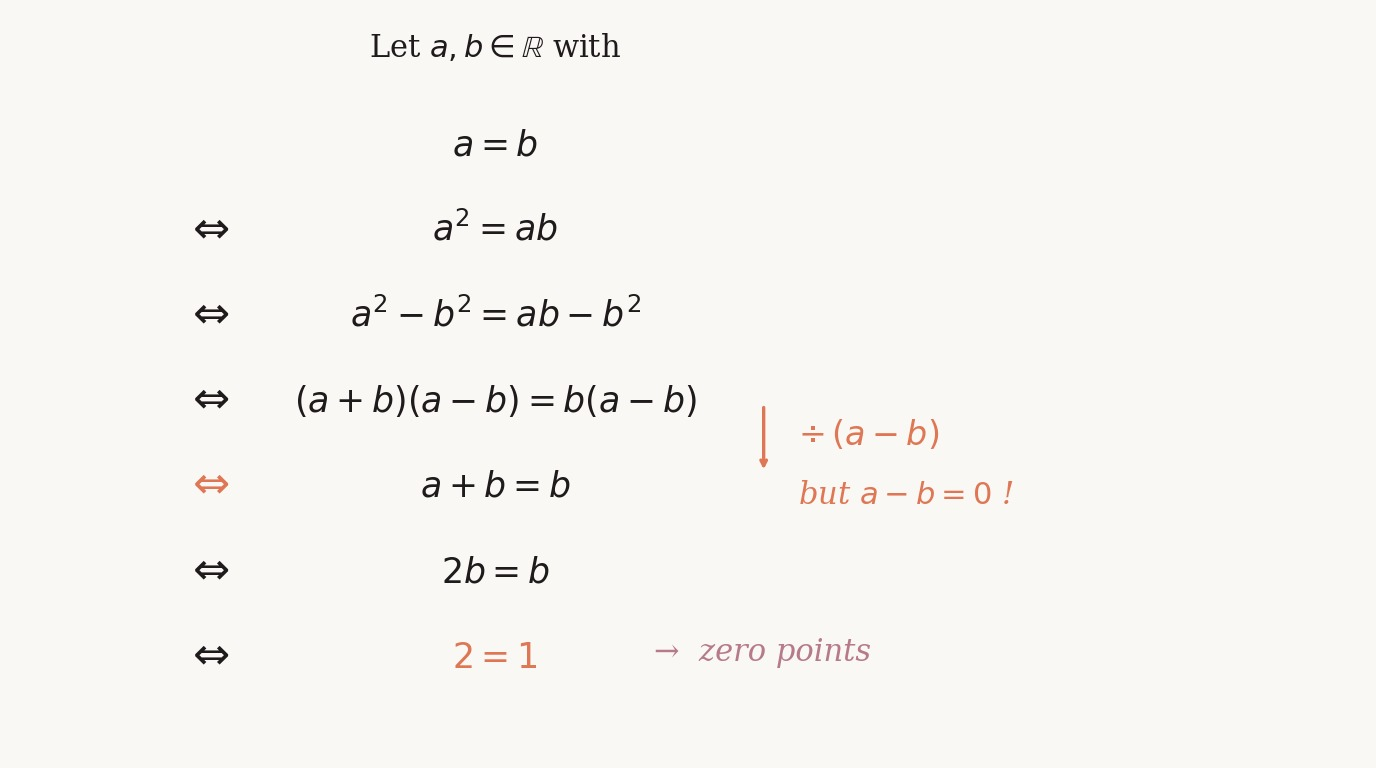
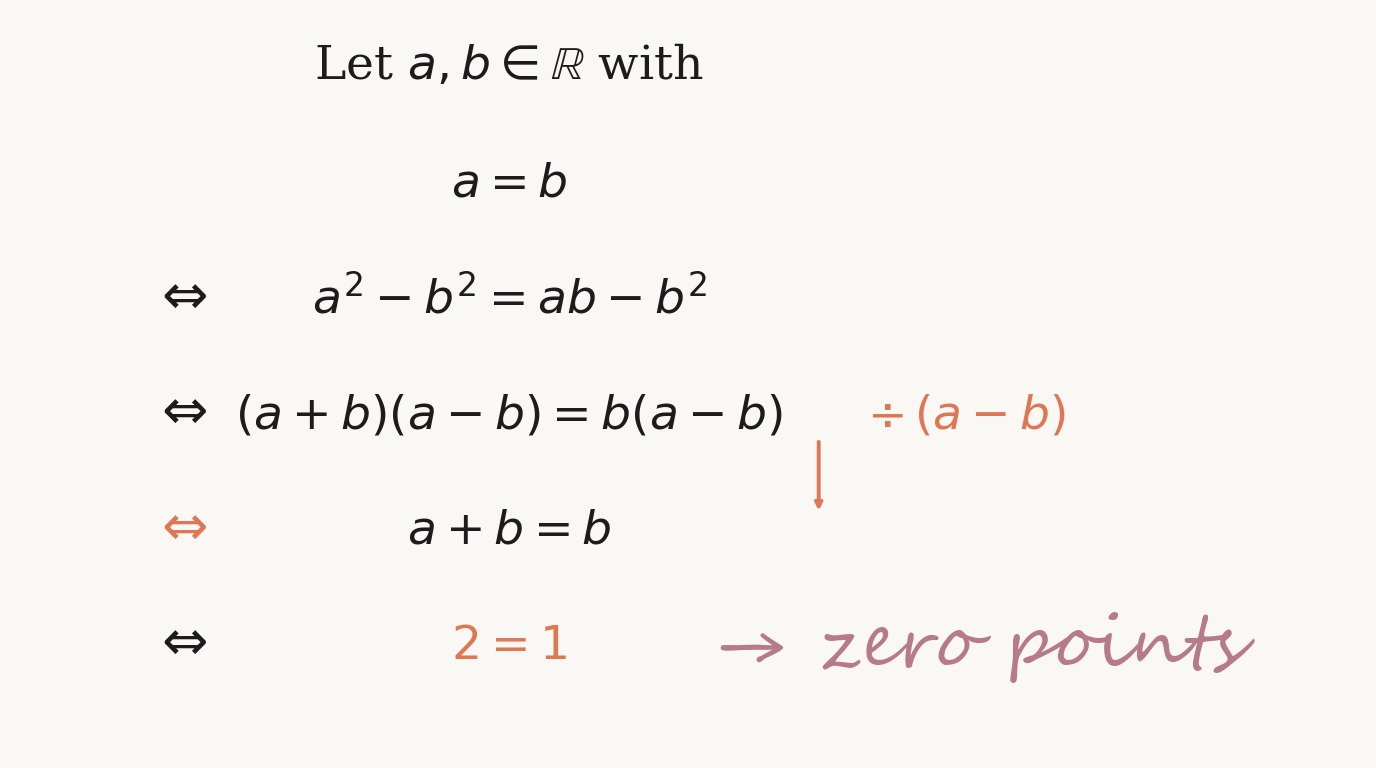
Then and Now card folder (photo credit); divide-by-zero card in five lines

diff --git a/divide-by-zero/divide_by_zero_card.py b/divide-by-zero/divide_by_zero_card.py
@@ -1,4 +1,4 @@
-"""Card image for 'Never Divide by Zero!': the classic 'proof' that 2 = 1, with the hidden division by zero.
+"""Card image for 'Never Divide by Zero!': the classic 'proof' that 2 = 1 in five lines, with the hidden division by zero. Needs the Windows font Segoe Script for the handwritten verdict (any script font will do).
 Usage: python divide_by_zero_card.py out.jpg"""
 import sys
 import matplotlib
@@ -13,19 +13,19 @@ fig.patch.set_facecolor(IVORY)
 ax = fig.add_axes([0, 0, 1, 1]); ax.set_facecolor(IVORY); ax.axis('off')
 ax.set_xlim(0, 10); ax.set_ylim(0, 10 * H / W)
 
-steps = [r'$a = b$', r'$a^2 = ab$', r'$a^2 - b^2 = ab - b^2$', r'$(a+b)(a-b) = b(a-b)$', r'$a + b = b$', r'$2b = b$', r'$2 = 1$']
-y0, dy = 4.45, 0.62
-ax.text(3.6, y0 + 0.72, r'Let $a, b \in \mathbb{R}$ with', ha='center', fontsize=22, color=DARK, family='serif')
+# five lines instead of seven: the squaring and the subtraction of b^2 are folded into one step
+steps = [r'$a = b$', r'$a^2 - b^2 = ab - b^2$', r'$(a+b)(a-b) = b(a-b)$', r'$a + b = b$', r'$2 = 1$']
+y0, dy = 4.15, 0.84
+ax.text(3.7, y0 + 0.86, r'Let $a, b \in \mathbb{R}$ with', ha='center', fontsize=34, color=DARK, family='serif')
 for k, st in enumerate(steps):
     col = TERRA if k == len(steps) - 1 else DARK
-    ax.text(3.6, y0 - k * dy, st, ha='center', fontsize=25, color=col, family='serif')
+    ax.text(3.7, y0 - k * dy, st, ha='center', fontsize=34, color=col, family='serif')
     if k < len(steps) - 1:   # the sign sits on the line it introduces: equivalences, all but one
-        ax.text(1.5, y0 - (k + 1) * dy, r'$\Leftrightarrow$', ha='center', fontsize=32, color=TERRA if k == 3 else DARK, family='serif')
+        ax.text(1.3, y0 - (k + 1) * dy, r'$\Leftrightarrow$', ha='center', fontsize=40, color=TERRA if k == 2 else DARK, family='serif')
 # the forbidden step
-ax.annotate('', xy=(5.55, y0 - 4 * dy + 0.18), xytext=(5.55, y0 - 3 * dy + 0.05),
-            arrowprops=dict(arrowstyle='->', color=TERRA, lw=2.4))
-ax.text(5.8, y0 - 3.55 * dy + 0.1, r'$\div\,(a-b)$', fontsize=24, color=TERRA, family='serif')
-ax.text(5.8, y0 - 4.25 * dy + 0.1, r'but $a - b = 0$ !', fontsize=22, color=TERRA, family='serif', style='italic')
-ax.text(4.75, y0 - 6 * dy + 0.05, '→  zero points', ha='left', fontsize=22, color=ROSE, family='serif', style='italic')
+ax.annotate('', xy=(5.95, y0 - 3 * dy + 0.22), xytext=(5.95, y0 - 2 * dy - 0.08),
+            arrowprops=dict(arrowstyle='->', color=TERRA, lw=2.8))
+ax.text(6.3, y0 - 2 * dy, r'$\div\,(a-b)$', fontsize=34, color=TERRA, family='serif')   # same baseline and size as the line it acts on
+ax.text(5.2, y0 - 4 * dy - 0.05, '→ zero points', ha='left', fontsize=52, color=ROSE, family='Segoe Script')   # handwriting, like a marker on the exam sheet
 fig.savefig(out, dpi=100, facecolor=IVORY, pil_kwargs={'quality': 92})
 print('ok')

diff --git a/divide-by-zero/README.md b/divide-by-zero/README.md
@@ -2,7 +2,7 @@
 
 Article: [https://belindata.com/projects/divide-by-zero.html](https://belindata.com/projects/divide-by-zero.html) (coming soon)
 
-- `divide_by_zero_card.py`: Card image for 'Never Divide by Zero!': the classic 'proof' that 2 = 1, with the hidden division by zero.
+- `divide_by_zero_card.py`: Card image for 'Never Divide by Zero!': the classic 'proof' that 2 = 1 in five lines, with the hidden division by zero.
 - `card_divide_by_zero.jpg`: the image as used on the site
 
 Python scripts need `numpy` and `matplotlib` (`pip install -r ../requirements.txt`).

diff --git a/then-and-now/README.md b/then-and-now/README.md
@@ -1,0 +1,5 @@
+# Then and Now: My Degree Before and After AI
+
+Article: [https://belindata.com/projects/then-and-now.html](https://belindata.com/projects/then-and-now.html) (coming soon)
+
+- `card_then_and_now.jpg`: the card image as used on the site: an old book, a cup of coffee and a laptop. Photo by [Vladyslav Bahara](https://unsplash.com/@vladbahara) on [Unsplash](https://unsplash.com/photos/cup-of-coffee-in-between-of-open-book-and-black-laptop-EOva41PiBYg), free to use under the [Unsplash License](https://unsplash.com/license); cropped to the card format.
